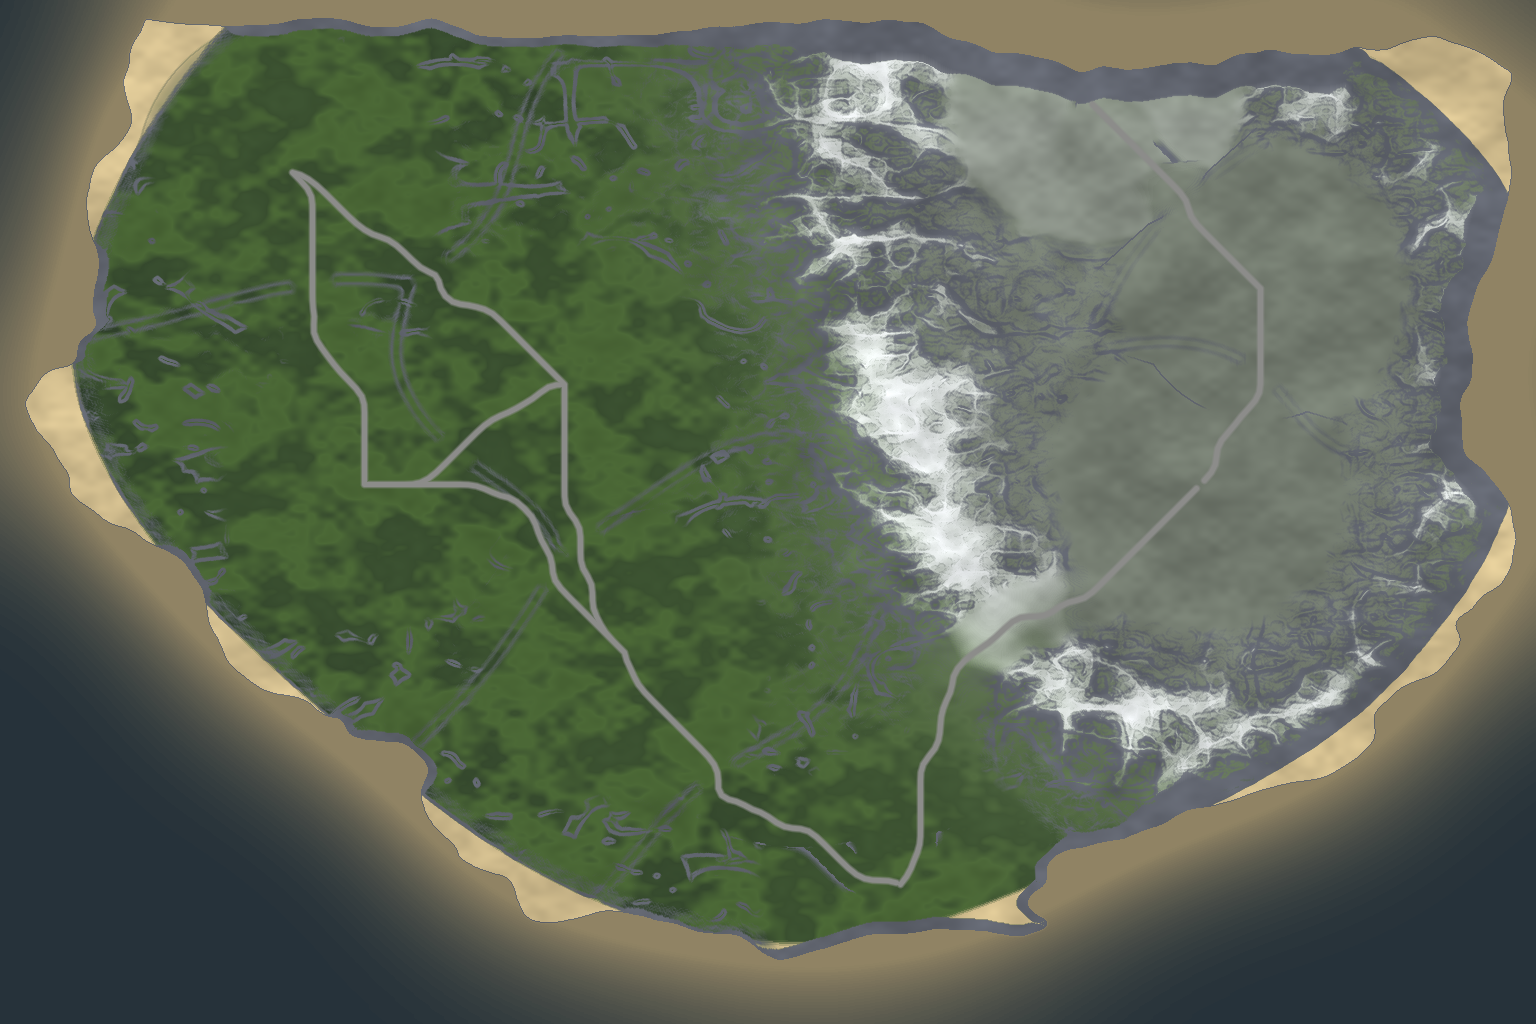
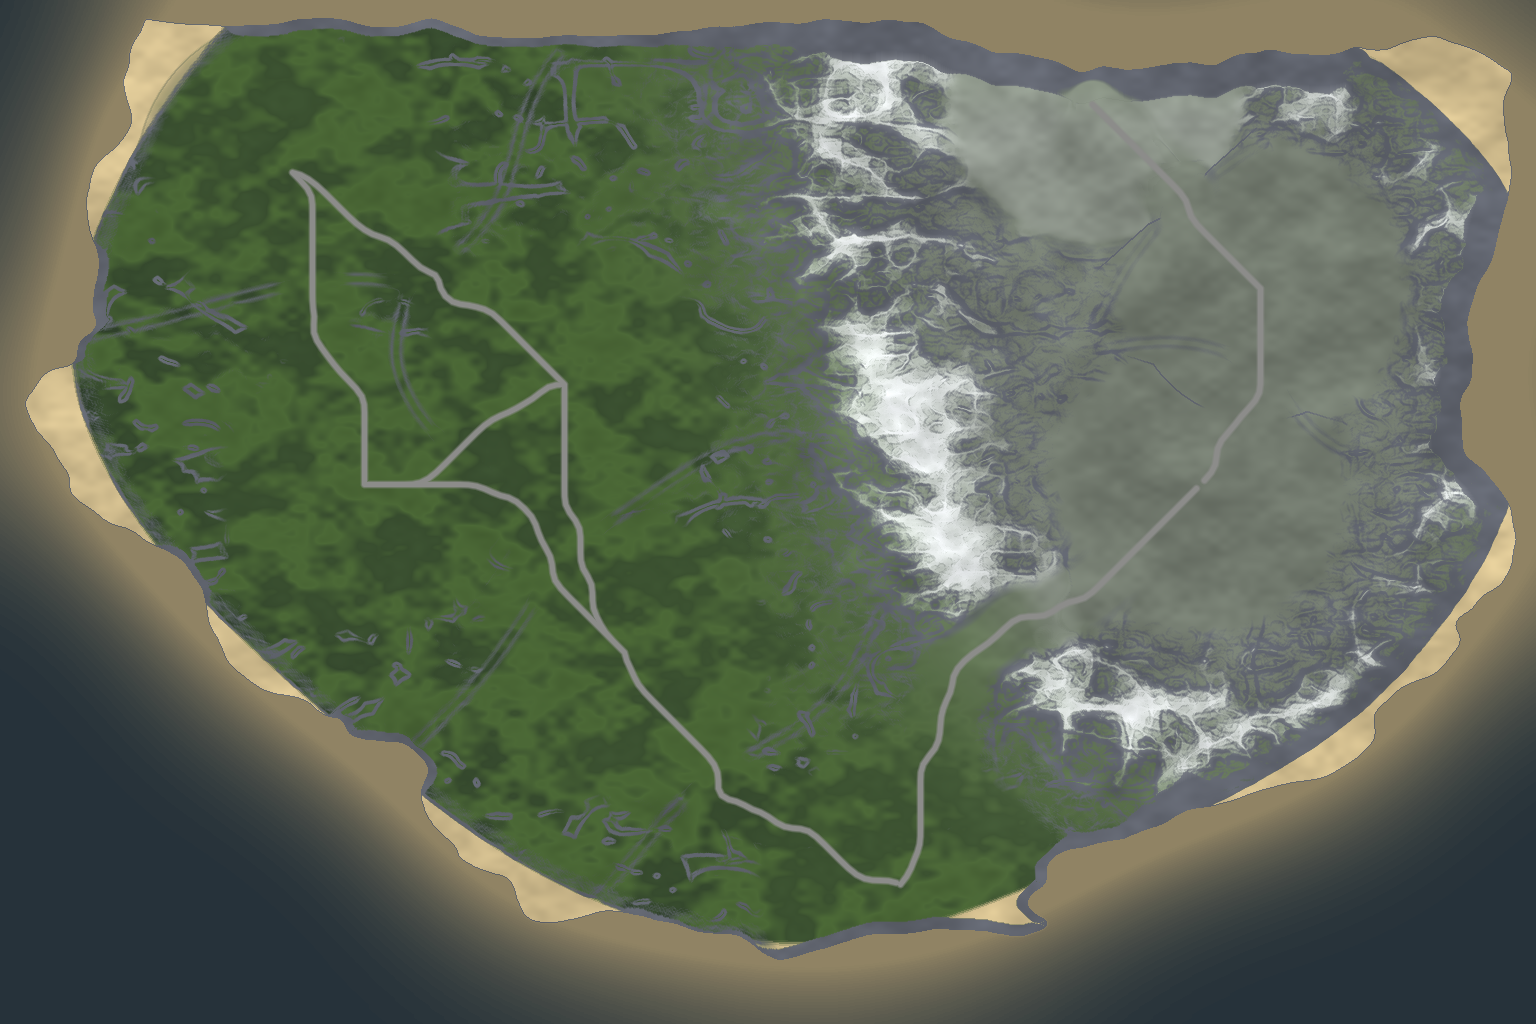
A road to the north that an army can walk
The north was shut. No company of the Crown's could reach Valmere, Frostgate or Icemere Reach by
any way at all, so the rival could never be taken. The road from Farrowmere climbs onto the northern
plateau more steeply than the march grid lets men stand (a rise of 0.9 across the next 12 pixels),
and a road only makes walkable ground cheaper, never a cliff passable. The road from Kingsreach to
Thornwatch had the border ditch dug through its bed where it runs beside the frontier.

The generator now grades every road as the last thing done to the height: its bed is held to 0.4
height bytes a pixel along the line, laid flat across 22 pixels either side and eased out over 22
more. Ground already within a byte of that bed is left alone, so the lowland keeps its clean
plateaus. A road is also a crossing along its whole length, so the ditch is no longer dug through
one. Roads, crossings, yards and county IDs come out unchanged; about 4.5% of the height moved,
nearly all of it on the northern climb.

tools/check_marches.py walks every county's village from the capital over the generated images by
MarchGrid's own rules, and rebuild-map.sh now runs it. It fails on the old map and passes on this
one. Played headless with the real rules, the Crown now takes the whole map in 15 turns; on the old
map it stopped at five counties out of six.

Claude-Session: https://claude.ai/code/session_019UrPNRtpTzF6mkG8ByiXJ1

diff --git a/tools/check_marches.py b/tools/check_marches.py
@@ -1,0 +1,147 @@
+"""Can an army get there? Every county's village, walked to from every other, over the generated map.
+
+The game decides where men can march in CampaignMapPage.LayGround and MarchGrid, off the height, ID and
+ditch images this campaign's generator writes. A map can come out of the generator looking right and
+still have a county nobody can reach: a road that climbs one cell too steeply is not a road to the
+march grid, and a whole region went unreachable that way without anybody noticing. So the same rules
+are applied here, to the images on disk, and the run fails if any county cannot be reached.
+
+Kept in step with the C# by hand. The numbers below are the game's own (CampaignMapPage, CampaignMap3D,
+MarchGrid, game-balance.tres); change one there and it has to change here.
+
+    tools/.venv/bin/python tools/check_marches.py [campaign] [--rise 0.9]
+"""
+import argparse
+import json
+from collections import deque
+from pathlib import Path
+
+import numpy as np
+from PIL import Image
+
+PROJECT_DIR = Path(__file__).resolve().parent.parent
+
+CELL_SIZE = 12                            # MarchGrid.CellSize
+HEIGHT_SCALE = 26.0                       # CampaignMap3D.HeightScale
+SEA_LEVEL = HEIGHT_SCALE * 46.0 / 255.0   # CampaignMap3D.SeaLevel, off SeaFloorByte
+SHORE_CLEARANCE = 0.35                    # CampaignMapPage.ShoreClearance
+MARCHABLE_RISE = 0.9                      # CampaignMapPage.MarchableRise
+
+
+def load(campaign):
+    assets = PROJECT_DIR / "assets" / "campaigns" / campaign
+    data = PROJECT_DIR / "data" / "campaigns" / campaign
+    height = np.asarray(Image.open(assets / "map-height.png").convert("L"), dtype=np.float32) / 255.0 * HEIGHT_SCALE
+    ids = np.asarray(Image.open(assets / "map-ids.png").convert("RGB"))[:, :, 0].astype(np.int32) - 1
+    ditch = np.asarray(Image.open(assets / "map-ditch.png").convert("L"), dtype=np.float32) / 255.0
+    roads = json.loads((data / "map-roads.json").read_text())
+    yards = {y["province"]: (y["x"], y["y"]) for y in json.loads((data / "map-yards.json").read_text())}
+    provinces = json.loads((data / "provinces.json").read_text())["provinces"]
+    return height, ids, ditch, roads, yards, provinces
+
+
+def height_at(height, x, y):
+    """CampaignMap3D.HeightAt: nothing off the edge of the map, the pixel under the point inside it."""
+    rows, cols = height.shape
+    if x < 0 or y < 0 or x > cols or y > rows:
+        return 0.0
+    return float(height[min(int(y), rows - 1), min(int(x), cols - 1)])
+
+
+def lay_ground(height, ditch, roads, rise_limit):
+    """CampaignMapPage.LayGround into MarchGrid: which cells an army can stand on, and why not."""
+    rows, cols = height.shape
+    across, down = cols // CELL_SIZE, rows // CELL_SIZE
+    walkable = np.zeros((down, across), dtype=bool)
+    why = {}
+    for cy in range(down):
+        for cx in range(across):
+            x, y = (cx + 0.5) * CELL_SIZE, (cy + 0.5) * CELL_SIZE
+            here = height_at(height, x, y)
+            if here <= SEA_LEVEL + SHORE_CLEARANCE:
+                why[(cx, cy)] = "sea"
+                continue
+            if ditch[min(max(int(y), 0), rows - 1), min(max(int(x), 0), cols - 1)] > 0.5:
+                why[(cx, cy)] = "ditch"
+                continue
+            rise = max(abs(height_at(height, x + CELL_SIZE, y) - here), abs(height_at(height, x, y + CELL_SIZE) - here))
+            if rise > rise_limit:
+                why[(cx, cy)] = f"steep {rise:.2f}"
+                continue
+            walkable[cy, cx] = True
+
+    # A road only makes ground that could already be walked cheaper (MarchGrid.Mark); it never
+    # makes a cliff passable. Nothing to do for reachability, which is all this asks.
+    return walkable, why
+
+
+def cell_of(point):
+    return int(np.floor(point[0] / CELL_SIZE)), int(np.floor(point[1] / CELL_SIZE))
+
+
+def reach(walkable, start):
+    """Every cell reachable from start: eight ways round, never squeezing between two corners."""
+    down, across = walkable.shape
+    seen = np.zeros_like(walkable)
+    if not (0 <= start[0] < across and 0 <= start[1] < down) or not walkable[start[1], start[0]]:
+        return seen
+    seen[start[1], start[0]] = True
+    queue = deque([start])
+    while queue:
+        cx, cy = queue.popleft()
+        for dx in (-1, 0, 1):
+            for dy in (-1, 0, 1):
+                x, y = cx + dx, cy + dy
+                if (dx == 0 and dy == 0) or not (0 <= x < across and 0 <= y < down):
+                    continue
+                if seen[y, x] or not walkable[y, x]:
+                    continue
+                if dx and dy and (not walkable[cy, x] or not walkable[y, cx]):
+                    continue
+                seen[y, x] = True
+                queue.append((x, y))
+    return seen
+
+
+def main():
+    parser = argparse.ArgumentParser()
+    parser.add_argument("campaign", nargs="?", default="royal-crown")
+    parser.add_argument("--rise", type=float, default=MARCHABLE_RISE)
+    args = parser.parse_args()
+
+    height, ids, ditch, roads, yards, provinces = load(args.campaign)
+    walkable, why = lay_ground(height, ditch, roads, args.rise)
+
+    capital = next(p for p in provinces if p.get("capital") and p["realm"] == json.loads(
+        (PROJECT_DIR / "data" / "campaigns" / args.campaign / "provinces.json").read_text())["player"])
+    start = cell_of(yards.get(capital["name"], (capital["x"], capital["y"])))
+    seen = reach(walkable, start)
+
+    unreachable = []
+    for province in provinces:
+        cell = cell_of(yards.get(province["name"], (province["x"], province["y"])))
+        ok = bool(seen[cell[1], cell[0]])
+        print(f"  {capital['name']} -> {province['name']}: {'reachable' if ok else 'UNREACHABLE'}")
+        if not ok:
+            unreachable.append(province["name"])
+
+    # Where a road stops being ground: the first cells along each line that an army cannot stand on.
+    for road in roads:
+        broken = []
+        for (x0, y0), (x1, y1) in zip(road["points"], road["points"][1:]):
+            span = max(np.hypot(x1 - x0, y1 - y0), 1e-6)
+            for along in np.arange(0.0, span + 1e-6, CELL_SIZE * 0.5):
+                cell = cell_of((x0 + (x1 - x0) * along / span, y0 + (y1 - y0) * along / span))
+                if cell in why and cell not in [b[0] for b in broken]:
+                    broken.append((cell, why[cell]))
+        if broken:
+            shown = ", ".join(f"{c}:{w}" for c, w in broken[:4])
+            print(f"  road {road['from']} -> {road['to']}: {len(broken)} blocked cells ({shown}{', ...' if len(broken) > 4 else ''})")
+
+    print(f"\nmarches ({args.campaign}, rise {args.rise}): "
+          + ("every county can be reached" if not unreachable else f"{len(unreachable)} UNREACHABLE: {', '.join(unreachable)}"))
+    raise SystemExit(1 if unreachable else 0)
+
+
+if __name__ == "__main__":
+    main()

diff --git a/tools/generate_campaign_map.py b/tools/generate_campaign_map.py
@@ -168,6 +168,15 @@ CARVE_VERGE = 44        # how far the cutting's bank is graded out into the coun
 CARVE_VERGE_FULL = 24   # and how far of that is graded completely, before it starts to fade
 CARVE_VERGE_BLUR = 11.0
 GRADE_PASSES = 3
+# The march grid (CampaignMapPage.LayGround) will not let an army onto a cell whose ground rises more
+# than 0.9 of a unit across the next 12 pixels — 0.74 height bytes a pixel. A road steeper than that
+# is drawn but cannot be walked, and one such climb shut the whole north off. So every road is given
+# a bed no steeper than ROAD_GRADE, flat across ROAD_BED either side of its line (wide enough for the
+# grid's own cells, which sample a cell's ground 12 pixels on), and eased back into the country over
+# ROAD_SHOULDER. tools/check_marches.py is what proves it held.
+ROAD_GRADE = 0.4           # height bytes a pixel along the road
+ROAD_BED = 22.0
+ROAD_SHOULDER = 22.0
 # Shortcuts kept on top of the minimum network that reaches every seat.
 EXTRA_ROUTES = 2
 
@@ -632,6 +641,9 @@ def dig_borders(height, land, province_id, roads, adjacency):
     gap = np.full((H, W), 1e9, dtype=np.float32)
     for c in crossings:
         np.minimum(gap, np.sqrt((xs - c["x"]) ** 2 + (ys - c["y"]) ** 2), out=gap)
+    # A road is a crossing along the whole of its length, not only at the point it changes county: one
+    # that ran beside a border for a stretch had the ditch dug straight through its bed there.
+    np.minimum(gap, distance_to_roads(roads), out=gap)
     open_ground = np.clip((gap - CROSSING_REACH * 0.6) / (CROSSING_REACH * 0.4), 0, 1)
 
     altitude = np.clip(height / 235.0, 0, 1)
@@ -659,6 +671,52 @@ def dig_borders(height, land, province_id, roads, adjacency):
     blocked = band & land & (gap > CROSSING_REACH) & (lowland > 0.5)
 
     return dug, np.clip(ditch + bank * 0.45, 0, 1), blocked, crossings
+
+
+def grade_roads(height, roads, land):
+    """Gives every road a bed an army can march up, as the last thing done to the height.
+
+    Along each road the ground is sampled and held to ROAD_GRADE a pixel, forwards and back, so a
+    climb becomes a ramp instead of a step; that profile is laid flat across ROAD_BED either side of
+    the line and blended out to the country over ROAD_SHOULDER. Where two roads meet, their beds are
+    averaged. Only land is touched."""
+    ys, xs = np.mgrid[0:H, 0:W]
+    reach = ROAD_BED + ROAD_SHOULDER
+    nearest = np.full((H, W), reach, dtype=np.float32)
+    level = np.zeros((H, W), dtype=np.float32)
+    weight = np.zeros((H, W), dtype=np.float32)
+    for road in roads:
+        dense = []
+        for (x0, y0), (x1, y1) in zip(road["points"], road["points"][1:]):
+            steps = max(int(np.ceil(np.hypot(x1 - x0, y1 - y0))), 1)
+            dense.extend((x0 + (x1 - x0) * t / steps, y0 + (y1 - y0) * t / steps) for t in range(steps))
+        dense.append(tuple(road["points"][-1]))
+        profile = np.array([height[min(int(y), H - 1), min(int(x), W - 1)] for x, y in dense], dtype=np.float32)
+        gaps = np.array([np.hypot(bx - ax, by - ay) for (ax, ay), (bx, by) in zip(dense, dense[1:])], dtype=np.float32)
+        for _ in range(2):
+            for i in range(1, len(profile)):
+                profile[i] = np.clip(profile[i], profile[i - 1] - ROAD_GRADE * gaps[i - 1], profile[i - 1] + ROAD_GRADE * gaps[i - 1])
+            for i in range(len(profile) - 2, -1, -1):
+                profile[i] = np.clip(profile[i], profile[i + 1] - ROAD_GRADE * gaps[i], profile[i + 1] + ROAD_GRADE * gaps[i])
+
+        for (x, y), elevation in zip(dense, profile):
+            left, right = max(int(x - reach), 0), min(int(x + reach) + 1, W)
+            top, bottom = max(int(y - reach), 0), min(int(y + reach) + 1, H)
+            local = np.hypot(xs[top:bottom, left:right] - x, ys[top:bottom, left:right] - y)
+            np.minimum(nearest[top:bottom, left:right], local, out=nearest[top:bottom, left:right])
+            # Weighted, not nearest-point: taking the level of whichever point is closest cut the
+            # shoulders into a fan of terraces, one step for every point along the line.
+            share = np.clip(1.0 - local / reach, 0, 1) ** 2
+            level[top:bottom, left:right] += share * elevation
+            weight[top:bottom, left:right] += share
+
+    level = level / np.maximum(weight, 1e-6)
+    blend = np.clip((reach - nearest) / ROAD_SHOULDER, 0, 1)
+    blend = blend * blend * (3.0 - 2.0 * blend) * land
+    # Ground already within a byte or so of the bed is left exactly as it was. Blending the lowland's
+    # whole-byte plateaus with a bed a fraction off them stippled the fields with one-byte noise.
+    blend *= np.clip((np.abs(level - height) - 1.0) / 2.0, 0, 1)
+    return height * (1.0 - blend) + level * blend
 
 
 def road_strength(roads):
@@ -1281,6 +1339,8 @@ def main():
     height = cliffs_not_walls(height, land)
     height = np.where(land, np.maximum(height, SEA_FLOOR_BYTE + FREEBOARD),
                       np.minimum(height, SEA_FLOOR_BYTE - DRAFT))
+    height = grade_roads(height, roads, land)
+    height = np.where(land, np.maximum(height, SEA_FLOOR_BYTE + FREEBOARD), height)
 
     albedo = paint_albedo(height, terrain_fields, land, rng)
     # The colour map tints every texture on the ground, and under a road it was the meadow's green:

diff --git a/CLAUDE.md b/CLAUDE.md
@@ -80,6 +80,11 @@ The men live in **companies** (`FieldArmy`), not in one roster per county:
   moved inland. Anything about the village — entering the town, fighting for it — uses the village.
 - The map's images are generated by `tools/generate_campaign_map.py`; models are cut down and their
   normals baked by `tools/decimate_meshy.py`. Re-run the tool, then reopen Godot to reimport.
+- `tools/check_marches.py` walks every county's village from the capital over the generated images,
+  by `MarchGrid`'s own rules, and fails if one cannot be reached (`rebuild-map.sh` runs it). Its
+  constants are copied from the C#; change `MarchableRise` or the cell size and change them there
+  too. A road steeper than the grid allows is drawn but cannot be walked — that once shut the whole
+  north off.
 
 ## Saves
 
